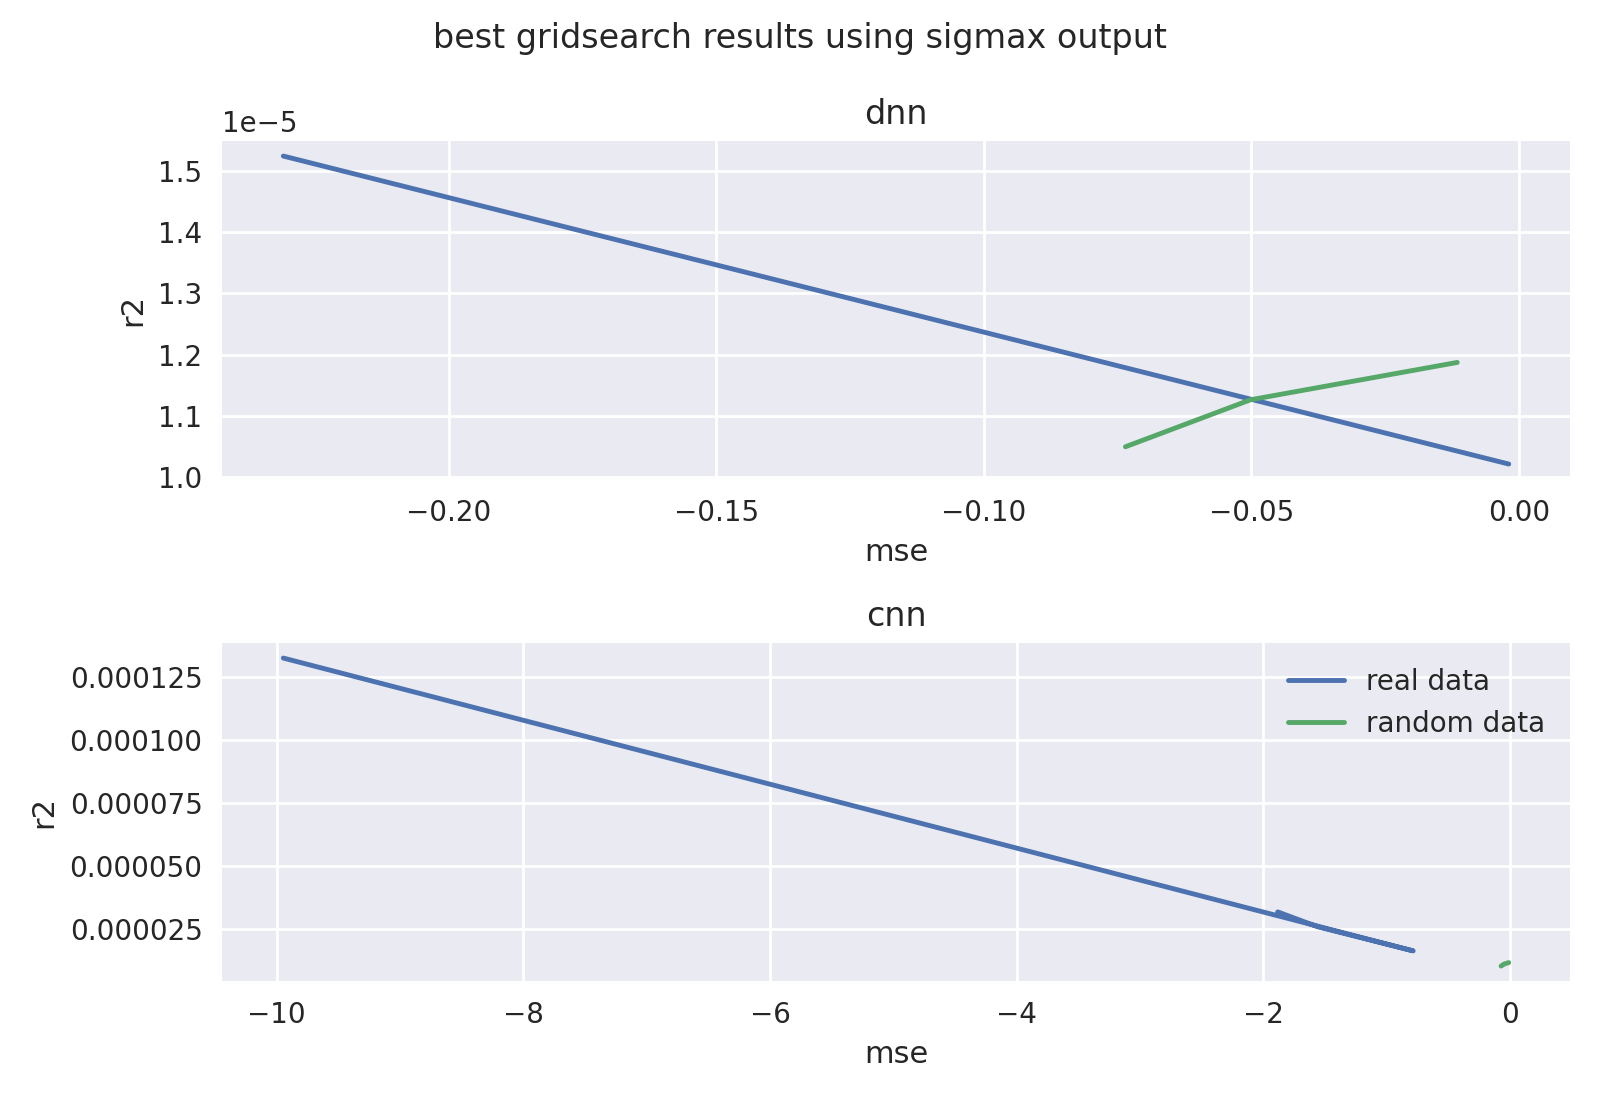
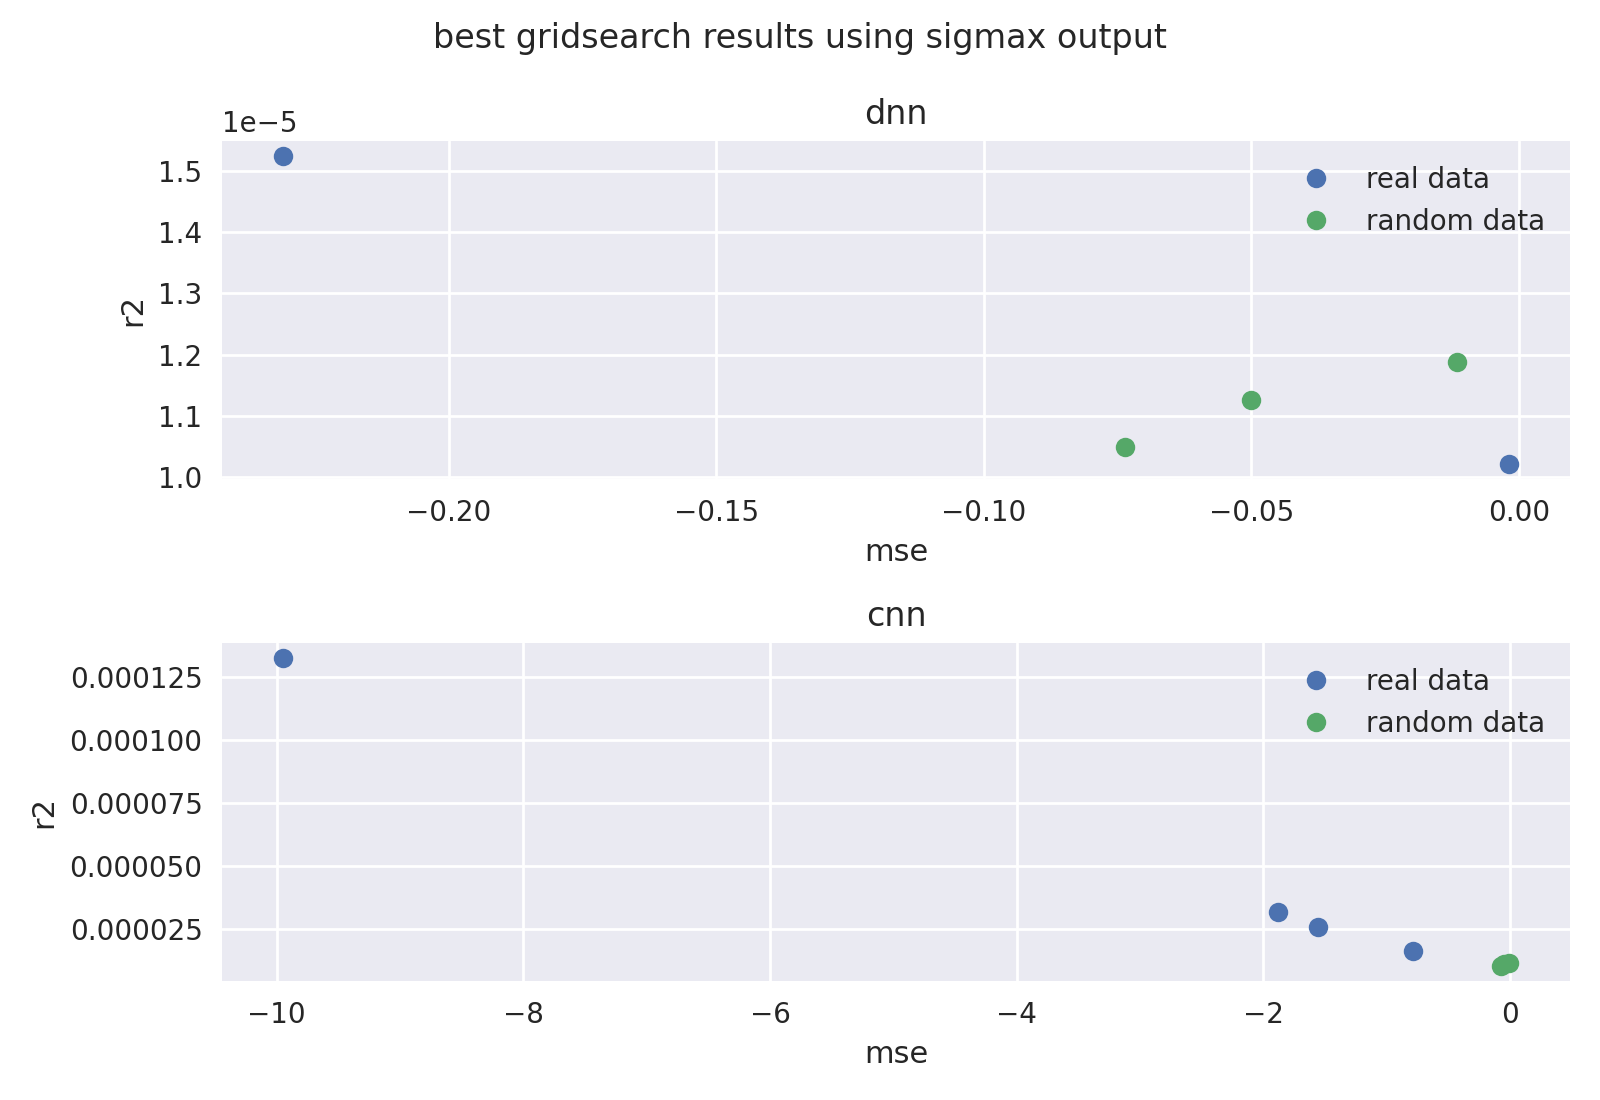
fig update

diff --git a/python/ml/plot_results.py b/python/ml/plot_results.py
@@ -77,11 +77,12 @@ actual_dnn = np.array(actual_dnn)
 random_dnn = np.array(random_dnn)
 actual_cnn = np.array(actual_cnn)
 random_cnn = np.array(random_dnn)
-axs[0].plot(actual_dnn[:,0], actual_dnn[:,1], label = 'real data')
-axs[0].plot(random_dnn[:,0], random_dnn[:,1], label = 'random data')
-axs[1].plot(actual_cnn[:,0], actual_cnn[:,1], label = 'real data')
-axs[1].plot(random_cnn[:,0], random_cnn[:,1], label = 'random data')
-axs[1].legend(numpoints=1)
+axs[0].plot(actual_dnn[:,0], actual_dnn[:,1], 'o', label = 'real data')
+axs[0].plot(random_dnn[:,0], random_dnn[:,1], 'o', label = 'random data')
+axs[1].plot(actual_cnn[:,0], actual_cnn[:,1], 'o', label = 'real data')
+axs[1].plot(random_cnn[:,0], random_cnn[:,1], 'o', label = 'random data')
+axs[0].legend()
+axs[1].legend()
 
 if sigmax:
     fig.suptitle('best gridsearch results using sigmax output')
